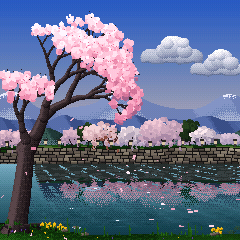
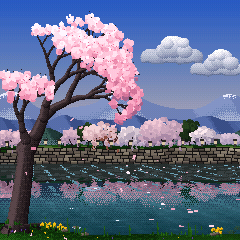
ZEN-1 1.0.1

diff --git a/firmware/src/app/scene_sakura.c b/firmware/src/app/scene_sakura.c
@@ -720,22 +720,28 @@ static uint8_t sk_ref_of(uint8_t c)
     return 0;
 }
 #define SK_REFROWS 48.0f                    /* how far toward us the reflections reach */
-SC_SMALL static void sk_reflect(surf_t *s, float k)
+/* the far bank mirrored: drawn before our tree and bank, so the water shows the far bank behind the trunk too (the
+ * trunk stands on our side, in front of the river: it hid its stretch of the reflection and cut a wedge in it) */
+SC_SMALL static void sk_mirror(surf_t *s, float k)
 {
     int32_t x, y, W = s->w, wy = (int32_t)(SK_WATER * k), ye = (int32_t)((SK_WATER + SK_REFROWS) * k);
-    int i;
     for (y = wy; y < ye && y < s->h; y++) {
         float u = (float)(y - wy) / (float)(ye - wy);   /* (whole near the wall, thinning out toward us) */
         int32_t ys = 2 * wy - y - 1, fade = u < 0.45f ? 16 : (int32_t)(16.0f * (1.0f - (u - 0.45f) / 0.55f));
         uint8_t *p = s->px + y * W;
         const uint8_t *q = s->px + (ys < 0 ? 0 : ys) * W;
-        for (x = sk_fgx[y < 240 ? y : 239]; x < W; x++) {
+        for (x = 0; x < W; x++) {                     /* (the whole row: the water behind the trunk too) */
             uint8_t r = sk_ref_of(q[x]);
             if (r && (p[x] >= SK_WAT && p[x] < SK_WAT + 16) && (fade >= 16 || r8_dith(x, y, fade)))
                 p[x] = r;
         }
     }
-    for (i = 0; i < 9; i++) {                         /* the shallows: stones along our bank, under the water */
+}
+SC_SMALL static void sk_reflect(surf_t *s, float k)    /* the shallows: stones along our bank, under the water */
+{
+    int32_t x, y, W = s->w;
+    int i;
+    for (i = 0; i < 9; i++) {
         float yw = 222.0f + 16.0f * sc_frand(), rx = 2.5f + 2.5f * sc_frand(), ry = 1.0f + 0.9f * sc_frand(), xw;
         int32_t yy = (int32_t)(yw * k), xa, xb, cy;
         if (yy >= s->h)
@@ -939,6 +945,7 @@ SC_SMALL static void sk_background(void)
     sk_far_bank(s, k);                                /* the hills, the far bank and its wall */
     sk_far_trees(s, k);
     r8_vgrad(s, wy, s->h, SK_WAT, 16);               /* (the light on it: drawn each frame, sk_draw) */
+    sk_mirror(s, k);                                  /* (the far bank in the water, before anything of ours) */
     sk.ntip = 0;
     sk_flare = 1.35f;
     sk_branch(s, k, 26.0f, 150.0f, 0.17f, 46.0f * SK_CROWN, 15.0f, 6);   /* the crown, leaning out over the pond */
@@ -955,8 +962,8 @@ SC_SMALL static void sk_background(void)
         const uint8_t *p = s->px + y * W;
         int32_t b = 0;
         if (y >= wy && y < s->h)
-            for (x = 0; x < W; x++)               /* (the strip along the foot: across) */
-                if ((uint8_t)(p[x] - SK_WAT) >= 16u)
+            for (x = 0; x < W; x++)               /* (the strip along the foot: across; the reflection is water) */
+                if (!sk_wet(p[x]))
                     b = x + 1;
         sk_fgx[y] = (uint8_t)b;
     }
@@ -968,7 +975,7 @@ SC_SMALL static void sk_background(void)
             sk_shade[i] = (uint8_t)(sk_bcnt[sx] * 9 > 255 ? 255 : sk_bcnt[sx] * 9);
         }
     }
-    sk_reflect(s, k);                                 /* (after the trunk and the bank's edge are known: sk_fgx) */
+    sk_reflect(s, k);                                 /* (the stones: after the bank's edge is known, sk_fgx) */
     sk_stones(s, k);
     sc_seed(sk.seed * 2654435761u + 1u);              /* the world's randomness, apart from the picture's */
 }
@@ -2108,12 +2115,14 @@ static void sk_draw(void)
             int off = (int)fm_floorf(1.25f * sk_sin(((float)y / k) * 0.55f + sk.t * 0.35f) + 0.5f);
             const uint8_t *b = r8_bg.px + y * W;
             uint8_t *p = s->px + y * W;
-            int32_t x0 = sk_fgx[y < 240 ? y : 239];
             if (!off)
                 continue;
-            for (x = x0; x < W; x++) {
+            for (x = 0; x < W; x++) {                 /* (the whole row, the water behind the trunk too; the trunk and
+                                                       * the bank left as they are) */
                 int32_t sx = x - off;
-                uint8_t c = b[sx < x0 ? x0 : sx >= W ? W - 1 : sx];
+                uint8_t c = b[sx < 0 ? 0 : sx >= W ? W - 1 : sx];
+                if ((uint8_t)(p[x] - SK_WAT) >= 16u && (uint8_t)(p[x] - SK_REF) >= 16u)
+                    continue;
                 if (c >= SK_REF && c < SK_REF + 16)
                     p[x] = c;
                 else if (p[x] >= SK_REF && p[x] < SK_REF + 16)
@@ -2134,7 +2143,7 @@ static void sk_draw(void)
             uint32_t ph1, ph2, i1 = (uint32_t)(4294967296.0f / (lam * k)), i2 = (uint32_t)(4294967296.0f / (lam * 0.62f * k));
             int th = (int)(110.0f - 30.0f * near), dv = 0, by = 0, mk = 0, rw = SK_WAT + ((y - wy) * 15) / (s->h - wy);
             uint8_t *p = s->px + y * W;
-            int32_t x0 = sk_fgx[y < 240 ? y : 239];   /* (from the bank and the trunk on) */
+            int32_t x0 = 0;                           /* (the whole row: only water is touched) */
             /* ripple marks: short dashes along the flow, finer far off, sliding downstream (lighter near, where they
              * catch the sky; darker far); a row's own phase so they never line up */
             float lm = 2.6f + 7.0f * near, pm = -sk.t * v * 0.9f / lm + (float)((uint32_t)y * 2654435761u >> 20) * (1.0f / 4096.0f);

diff --git a/BUILDING.md b/BUILDING.md
@@ -44,8 +44,8 @@ On Linux x86-64 the toolchain runs natively and Docker is not needed.
 `JIELI_TOOLCHAIN` and `AC79_SDK` override the default locations
 (`~/.jieli/toolchain`, `~/fw-AC79_AIoT_SDK`).
 
-`./build.sh --release 1.0` makes a release build; the package is `build/zen-1-1.0.fwsc` (identity
-`FM-1_6010000`; dev builds are `FM-1_600`). Release builds leave out the testing HUD.
+`./build.sh --release 1.0.1` makes a release build; the package is `build/zen-1-1.0.1.fwsc` (identity
+`FM-1_6010001`; dev builds are `FM-1_600`). Release builds leave out the testing HUD.
 
 On macOS with podman instead of Docker, put a `docker` script that runs `exec podman "$@"` first
 on your PATH. `OM_JOBS` (default 4) limits parallel compiles: a podman machine drops
@@ -88,7 +88,7 @@ script (the command list is at the top of `host/zen_host.c`).
 short form:
 
 - The unit reports a known-good identity: `python3 tools/fm1_install.py --info` (stock V15 is `FM-1_015`;
-  ZEN-1 1.0 is `FM-1_6010000`). Custom firmware expects the unit to have been on stock V15.
+  ZEN-1 1.0.1 is `FM-1_6010001`). Custom firmware expects the unit to have been on stock V15.
 - You have the official `FM-1.fwsc` (V15) on your computer; its SHA-256 is
[1 lines of base64/hex data omitted]
   page's "Back to the stock firmware" takes exactly that file.
@@ -104,7 +104,7 @@ From the command line
 (needs `pip3 install mido python-rtmidi`):
 
 ```
-python3 tools/fm1_install.py build/zen-1-1.0.fwsc
+python3 tools/fm1_install.py build/zen-1-1.0.1.fwsc
 python3 tools/fm1_install.py --info          # identity of the connected FM-1
 ```
 

diff --git a/README.md b/README.md
@@ -73,7 +73,7 @@ See [BUILDING.md](BUILDING.md) and [docs/dev-environment.md](docs/dev-environmen
 ```
 tests/run_tests.sh                    # host tests, the simulator scenarios, the browser build, the tools
 ./build.sh                            # build/zen1.fwsc (Docker, JieLi toolchain)
-./build.sh --release 1.0           # a release package, build/zen-1-1.0.fwsc
+./build.sh --release 1.0.1         # a release package, build/zen-1-1.0.1.fwsc
 web/emu/build.sh                      # the browser emulator, and the audition bench for developers (Emscripten)
 build/host/zen_host SCRIPT OUTDIR    # the whole app on a computer, from a script (tests/scenarios/*.zen)
 tools/site_gallery.sh                 # the site's screenshots, from the simulator

diff --git a/docs/CHANGELOG.md b/docs/CHANGELOG.md
@@ -4,6 +4,11 @@ Identities are `FM-1_6` + major, minor and patch as two digits each; the FM-1 re
 (`python3 tools/fm1_install.py --info`). FuMi-1's own releases, up to 1.0.3 where ZEN-1 began, are in
 [its changelog](https://github.com/cartesive/fumi-1/blob/main/docs/CHANGELOG.md).
 
+## 1.0.1 — `FM-1_6010001`
+
+- **Sakura:** the far bank's reflection now reaches across the whole river, behind the tree's trunk too. The trunk
+  had hidden the water to its left and cut a wedge out of the reflection to its right.
+
 ## 1.0 — `FM-1_6010000`
 
 The first public release.
